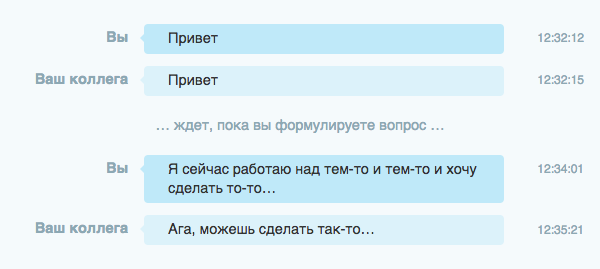
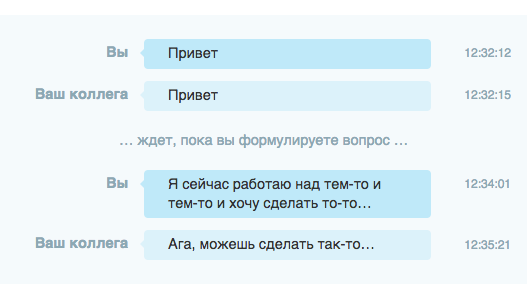
Polish before public

diff --git a/index.html b/index.html
@@ -13,12 +13,17 @@
         <meta property="og:locale" content="ru_RU" />
         <meta property="og:site_name" content="Не привет" />
         <meta property="og:url" content="http://neprivet.ru" />
+
         <meta property="og:image" content="http://neprivet.ru/img/og-dialog.png" />
-        <meta property="og:image:width" content="600" />
-        <meta property="og:image:height" content="269" />
+        <meta property="og:image:type" content="image/png" />
+        <meta property="og:image:width" content="527" />
+        <meta property="og:image:height" content="300" />
+
         <meta property="og:image" content="http://neprivet.ru/img/bad-good.png" />
+        <meta property="og:image:type" content="image/png" />
         <meta property="og:image:width" content="600" />
         <meta property="og:image:height" content="580" />
+
         <meta property="article:tag" content="чат, skype, переписка, привет, сетевой этикет, деловой этикет, правила чата, правила общения в чате">
         <meta name="viewport" content="width=device-width, initial-scale=1">
         <link rel="stylesheet" media="screen" href="./css/main.css">
@@ -101,8 +106,11 @@
 </div>
 
 <p>К тому же, когда вы задаете вопрос сразу, открывается возможность асинхронного взаимодействия. Если собеседник недоступен, а вы уйдете до того как он вернется, он по прежнему может ответить на вопрос, вместо того, чтобы смотреть на ваш «Привет» и думать, что же случилось.</p>
+<hr />
+<p>Если вы увидели у кого-то статусе ссылку на эту статью, будьте готовы, что ваш собеседник проигнорирует сообщение с одним «приветом».</p>
+<p>Ссылка на эту страницу: <a href="http://neprivet.ru">http://neprivet.ru</a></p>
+<p>Суть одной картинке: <a href="http://neprivet.ru/img/bad-good.png">http://neprivet.ru/img/bad-good.png</a></p>
 
-<p>Ссылка на эту страницу <a href="http://neprivet.ru">http://neprivet.ru</a></p>
         </article>
         <footer>
 <div class="row">

diff --git a/css/main.css b/css/main.css
@@ -17,6 +17,11 @@ article {
   font-size: 1.25rem;
   line-height: 1.5em;
 }
+hr {
+  margin: 3rem;
+  border-bottom: 0;
+  border-top: 1px solid #ccc;
+}
 footer {
   background: #334;
   padding: 1rem 0;
